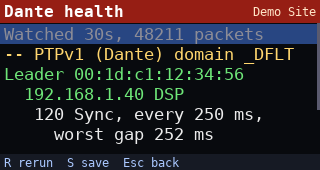
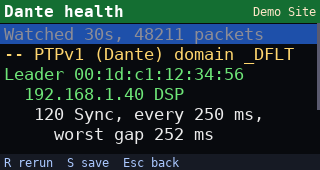
net-tools 0.2.3: move/edit modes, green/blue/red colours
Forms move with plain F/X; OK or Right on a field starts editing (red),
OK keeps the text and Esc restores it. The terminal uses the same model.
Title bar green, highlight blue, editing red.

Claude-Session: https://claude.ai/code/session_01GkgDxeG2mjJ9KCWVtnQ19T

Changed region(s): [[0.0, 0.0, 1.0, 0.2647]]

diff --git a/net-tools/tntnet/ui.py b/net-tools/tntnet/ui.py
@@ -25,8 +25,9 @@ OK = (110, 230, 120)
 WARN = (255, 190, 60)
 BAD = (255, 95, 95)
 INFO = (130, 200, 255)
-BAR = (150, 30, 20)       # TNT red title bar
-SEL = (40, 70, 130)
+BAR = (20, 110, 50)       # green title bar
+SEL = (30, 80, 170)       # blue highlight: move with F/X
+EDIT = (170, 30, 30)      # red highlight: typing into this field
 
 MONO = "/usr/share/fonts/truetype/dejavu/DejaVuSansMono.ttf"
 MONO_BOLD = "/usr/share/fonts/truetype/dejavu/DejaVuSansMono-Bold.ttf"
@@ -58,6 +59,7 @@ class View:
     cursor: int = -1          # index into lines that is highlighted, -1 none
     hscroll: int = 0
     edit: str | None = None   # an input line shown above the hint (terminal)
+    editing: bool = False     # highlight / input line shown red: keys type
 
 
 # ---------------------------------------------------------------- screens
@@ -134,53 +136,84 @@ class Field:
 
 
 class Form(Screen):
-    """Fields typed on the keyboard. Up/Down (or Tab) move between fields,
-    Left/Right cycle a choice, Enter submits. Secret fields show as dots."""
+    """Fields on the keyboard, two modes (TNT standard):
+    move: F/X (or arrows) pick a field, OK/Right starts editing it, Esc/Left
+          backs out. On a choice field OK/Right/Left cycle the choice.
+          OK on [ OK ] runs.
+    edit: (highlight turns red) keys type, OK keeps the text and returns to
+          move mode, Esc puts the old text back."""
 
     def __init__(self, title: str, fields: list[Field], submit, note: str = ""):
         self.title, self.fields, self.submit, self.note = title, fields, submit, note
         self.cur = 0
-        self.hint = "Fn+F/X field  Fn+Z/C choice  OK  Esc"
+        self.editing = False
+        self.before = ""
+
+    @property
+    def hint(self) -> str:
+        if self.editing:
+            return "Type  OK done  Esc cancel"
+        f = self.fields[self.cur] if self.cur < len(self.fields) else None
+        if f is None:
+            return "OK run  F/X move  Esc back"
+        if f.choices:
+            return "Z/C or OK change  F/X move  Esc"
+        return "OK edit  F/X move  Esc back"
 
     def view(self, rows: int) -> View:
         lines = []
-        for f in self.fields:
-            v = "•" * len(f.value) if f.secret else f.value
+        for i, f in enumerate(self.fields):
+            v = "\u2022" * len(f.value) if f.secret else f.value
             if f.choices:
                 v = f"< {v} >"
+            elif self.editing and i == self.cur:
+                v += "_"
             lines.append(Line(f"{f.label}: {v}"))
         if self.note:
             lines.append(Line(self.note, DIM))
         lines.append(Line("[ OK ]", OK))
-        return View(self.title, lines, self.hint, self.cur if self.cur < len(self.fields) else len(lines) - 1)
+        cur = self.cur if self.cur < len(self.fields) else len(lines) - 1
+        return View(self.title, lines, self.hint, cur, editing=self.editing)
+
+    def values(self) -> dict:
+        return {f.key: f.value.strip() if not f.secret else f.value for f in self.fields}
 
     def on_key(self, k: Key, app) -> None:
         f = self.fields[self.cur] if self.cur < len(self.fields) else None
-        if k.name == "esc":
-            app.pop()
-        elif k.name == "up":
-            self.cur = max(0, self.cur - 1)
-        elif k.name in ("down", "tab"):
-            self.cur = min(len(self.fields), self.cur + 1)
-        elif k.name == "enter":
-            self.submit({f.key: f.value.strip() if not f.secret else f.value for f in self.fields}, app)
-        elif f is None:
-            if k.nav == "left":
-                app.pop()
-            elif k.nav == "right":
-                self.submit({f.key: f.value.strip() if not f.secret else f.value for f in self.fields}, app)
+        if self.editing:
+            if k.name == "enter":
+                self.editing = False
+            elif k.name == "esc":
+                f.value = self.before
+                self.editing = False
+            elif k.name == "bksp":
+                f.value = f.value[:-1]
+            elif k.name == "del":
+                f.value = ""
+            elif k.char:
+                f.value += k.char
             return
-        elif k.name == "left" and not f.choices:
+        nav = k.nav
+        if nav == "esc":
             app.pop()
-        elif f.choices and k.name in ("left", "right") or f.choices and k.char == " ":
-            i = f.choices.index(f.value) if f.value in f.choices else 0
-            f.value = f.choices[(i + (-1 if k.name == "left" else 1)) % len(f.choices)]
-        elif k.name == "bksp":
-            f.value = f.value[:-1]
-        elif k.name == "del":
-            f.value = ""
-        elif k.char and not f.choices:
-            f.value += k.char
+        elif nav == "up":
+            self.cur = max(0, self.cur - 1)
+        elif nav in ("down", "tab"):
+            self.cur = min(len(self.fields), self.cur + 1)
+        elif f is None:
+            if nav in ("enter", "right"):
+                self.submit(self.values(), app)
+            elif nav == "left":
+                app.pop()
+        elif f.choices:
+            if nav in ("left", "right", "enter") or k.char == " ":
+                i = f.choices.index(f.value) if f.value in f.choices else 0
+                f.value = f.choices[(i + (-1 if nav == "left" else 1)) % len(f.choices)]
+        elif nav in ("enter", "right"):
+            self.before = f.value
+            self.editing = True
+        elif nav == "left":
+            app.pop()
 
 
 class Message(Screen):
@@ -453,16 +486,17 @@ class Painter:
                 color = INFO
             for part in chunks(i)[: rows - used]:
                 if i == v.cursor:
-                    surf.fill(SEL, (0, y, W, self.lh))
+                    surf.fill(EDIT if v.editing else SEL, (0, y, W, self.lh))
                 surf.blit(self.f.render(part or " ", True, color), (self.pad, y))
                 y += self.lh
                 used += 1
             i += 1
         if v.edit is not None:
             ey = H - self.hh - self.lh - 1
-            surf.fill((25, 25, 35), (0, ey, W, self.lh))
-            e = "> " + v.edit + "_"
-            surf.blit(self.f.render(e[-cols:], True, (255, 255, 160)), (self.pad, ey))
+            surf.fill(EDIT if v.editing else (40, 40, 55), (0, ey, W, self.lh))
+            e = "> " + v.edit + ("_" if v.editing else "")
+            surf.blit(self.f.render(e[-cols:], True, (255, 255, 255) if v.editing else (170, 170, 180)),
+                      (self.pad, ey))
         surf.fill((22, 26, 36), (0, H - self.hh, W, self.hh))
         surf.blit(self.fh.render(v.hint, True, (170, 200, 255)), (self.pad, H - self.hh + 1))
         # scroll indicator

diff --git a/net-tools/tntnet/terminal.py b/net-tools/tntnet/terminal.py
@@ -229,8 +229,14 @@ class TerminalScreen(Screen):
         if self.scroll:
             lines = lines[: max(1, len(lines) - self.scroll)]
         mode = f"{'HEX' if self.send_hex else 'ASC'}>{self.ending} view:{'HEX' if self.view_hex else 'ASC'}"
-        hint = self.msg or f"{mode}  Esc menu  PgUp/Dn scroll"
-        return View(self.title, lines, hint, len(lines) - 1 if lines else -1, 0, self.edit)
+        if self.msg:
+            hint = self.msg
+        elif getattr(self, "editing", True):
+            hint = f"{mode}  OK send  Esc stop typing"
+        else:
+            hint = "OK type  F/X scroll  Esc menu"
+        return View(self.title, lines, hint, len(lines) - 1 if lines else -1, 0, self.edit,
+                    editing=getattr(self, "editing", True))
 
     def send_line(self, text: str, send_hex: bool | None = None, ending: str | None = None) -> None:
         send_hex = self.send_hex if send_hex is None else send_hex
@@ -256,8 +262,20 @@ class TerminalScreen(Screen):
 
     def on_key(self, k: Key, app) -> None:
         self.msg = ""
+        if not getattr(self, "editing", True):
+            # move mode: scroll the output, OK/Right goes back to typing
+            nav = k.nav
+            if nav in ("esc", "left"):
+                app.push(self.menu())
+            elif nav in ("enter", "right"):
+                self.editing = True
+            elif nav == "up" or k.name == "pgup":
+                self.scroll = min(max(0, len(self.lines) - 1), self.scroll + (6 if k.name == "pgup" else 1))
+            elif nav == "down" or k.name == "pgdn":
+                self.scroll = max(0, self.scroll - (6 if k.name == "pgdn" else 1))
+            return
         if k.name == "esc":
-            app.push(self.menu())
+            self.editing = False
         elif k.name == "enter":
             if self.edit or not self.send_hex:
                 self.send_line(self.edit)

diff --git a/net-tools/tntnet/app.py b/net-tools/tntnet/app.py
@@ -17,7 +17,7 @@ import pygame  # noqa: E402
 from . import keys, reports, store, util  # noqa: E402
 from .ui import DIM, Field, Form, Line, Menu, Message, Renderer, Screen, TaskScreen, View  # noqa: E402
 
-VERSION = "0.2.2"
+VERSION = "0.2.3"
 
 
 class App:

diff --git a/net-tools/README.md b/net-tools/README.md
@@ -62,7 +62,8 @@ In lists (menus and results) F, X, Z and C work without Fn too, as do `;` and `.
 | Esc or Left | Back one level (Esc quits from the main menu; Left does not) |
 | Hold Esc | Exit the app (CardputerZero standard) |
 | `1`-`9` | Jump to a menu item |
-| Left / Right in a form | Change a choice |
+| OK or Right on a field | Start typing (highlight turns red). OK again keeps it, Esc puts the old text back |
+| Z / C on a choice | Change the choice |
 | `,` `/` | Scroll wide results sideways on the small screen |
 | PgUp / PgDn, Home / End | Page through results |
 | S / R / Q | Save to site report / run again / stop |
